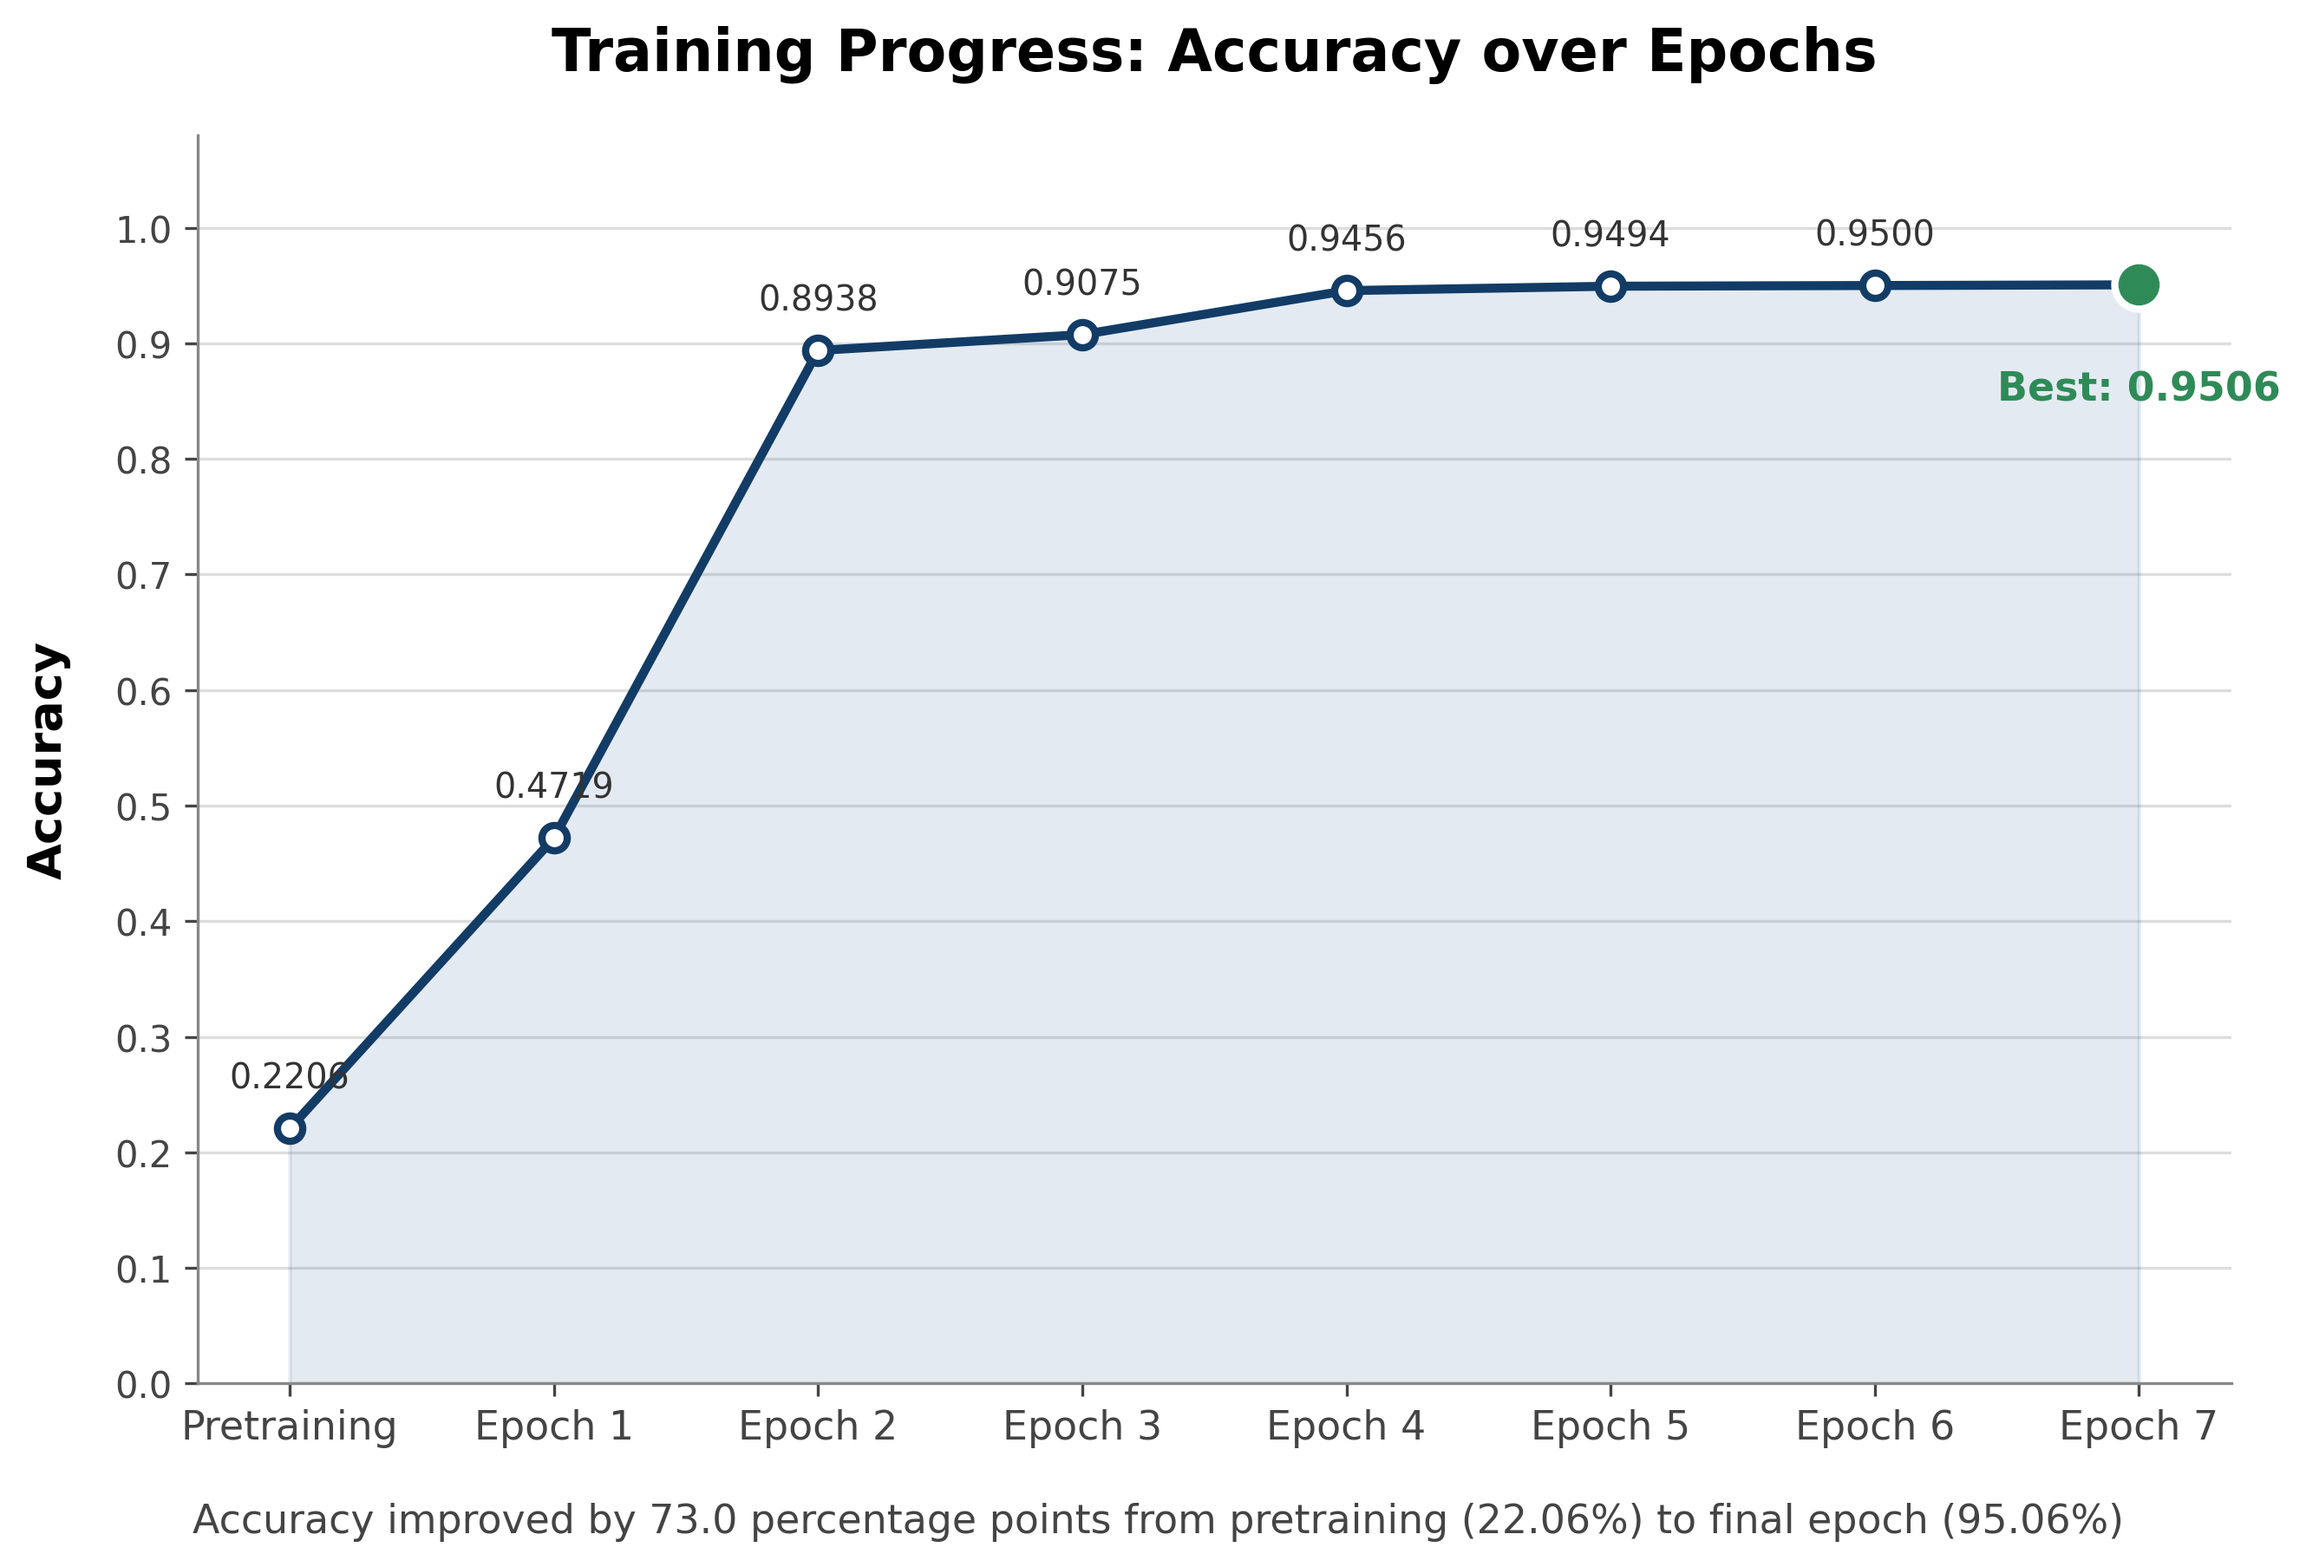
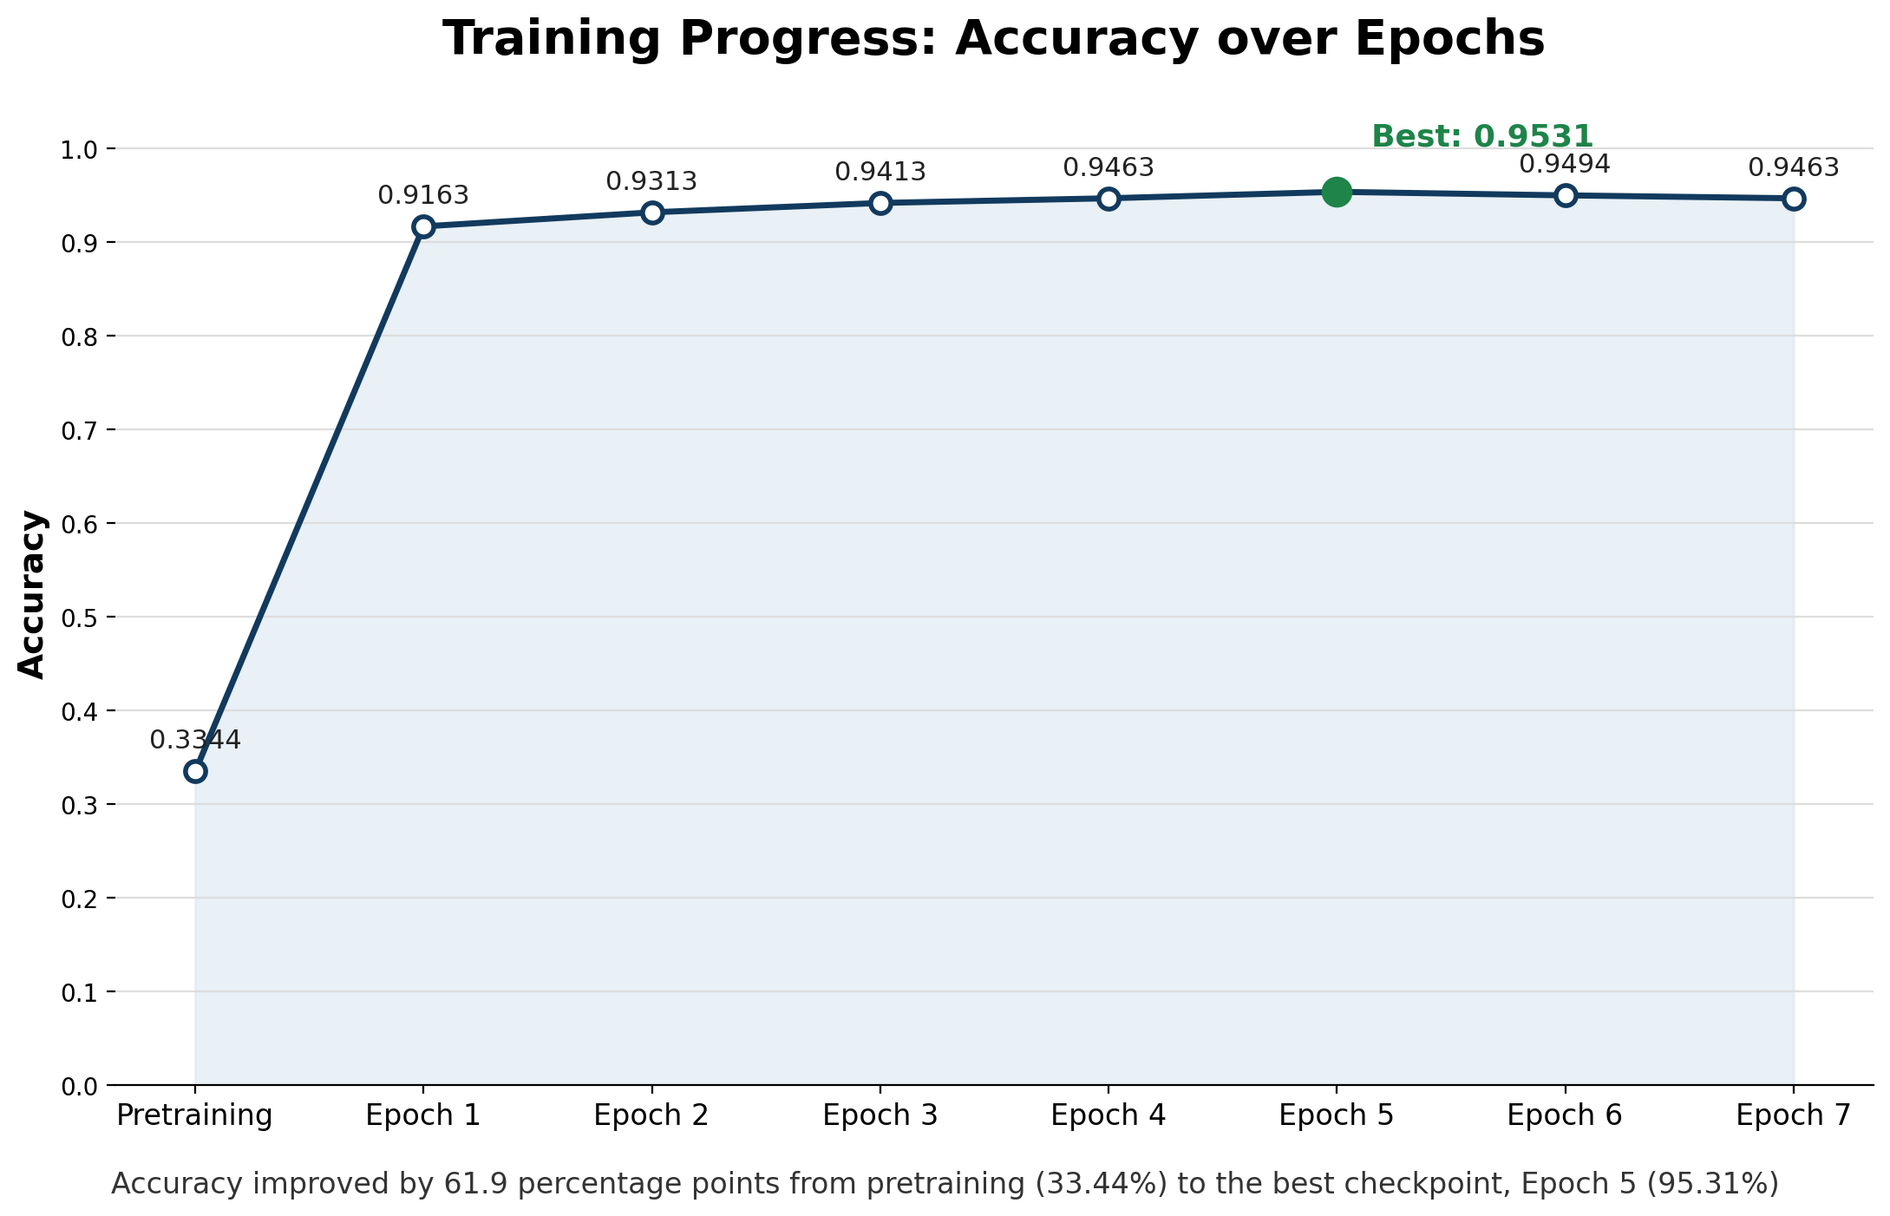
Retrained the Model Using Lanczos Interpolation

diff --git a/backend/src/train.py b/backend/src/train.py
@@ -243,4 +243,4 @@ def load() -> None:
     print(f"============================================================")
 
 if __name__ == "__main__":
-    train()
+    ...

diff --git a/backend/src/invoke.py b/backend/src/invoke.py
@@ -62,4 +62,3 @@ def invoke(tensor: Tensor):
 
 if __name__ == "__main__":
     ...
-

diff --git a/results/Performance.md b/results/Performance.md
@@ -2,18 +2,18 @@
 
 ## Overall Performance
 
-The fine-tuned **ResNet-50 model achieved strong overall performance** on the evaluation dataset, reaching an accuracy of **95.06%** and correctly classifying **1,521 out of 1,600 images**.
+The fine-tuned **ResNet-50 model achieved strong overall performance** on the evaluation dataset, reaching an accuracy of **95.31%** and correctly classifying **1,525 out of 1,600 images**. This checkpoint corresponds to **Epoch 5**, the last epoch whose weights were saved — validation loss increased in Epochs 6 and 7, so training effectively plateaued at this point.
 
-| Metric              |      Score |
-| ------------------- | ---------: |
-| **Test Loss**       |     0.2484 |
-| **Accuracy**        | **95.06%** |
-| **Macro Precision** |     0.9543 |
-| **Macro Recall**    |     0.9506 |
-| **Macro F1-Score**  |     0.9499 |
-| **Macro AUC-ROC**   | **0.9897** |
+| Metric               |      Score |
+| -------------------- | ---------: |
+| **Validation Loss**  |     0.2902 |
+| **Accuracy**         | **95.31%** |
+| **Macro Precision**  |     0.9570 |
+| **Macro Recall**     |     0.9531 |
+| **Macro F1-Score**   |     0.9522 |
+| **Macro AUC-ROC**    | **0.9906** |
 
-The close agreement between macro precision, recall, and F1-score indicates that the model performs relatively consistently across the four classes. Additionally, the **AUC-ROC score of 0.9897** demonstrates excellent overall class separability based on the model's predicted probabilities.
+The close agreement between macro precision, recall, and F1-score indicates that the model performs relatively consistently across the four classes. Additionally, the **AUC-ROC score of 0.9906** demonstrates excellent overall class separability based on the model's predicted probabilities.
 
 ---
 
@@ -21,29 +21,29 @@ The close agreement between macro precision, recall, and F1-score indicates that
 
 | Class       |  Precision |     Recall |   F1-Score | Samples |
 | ----------- | ---------: | ---------: | ---------: | ------: |
-| **Class 0** | **0.9970** |     0.8350 |     0.9088 |     400 |
-| **Class 1** |     0.8921 | **0.9925** |     0.9396 |     400 |
-| **Class 2** |     0.9356 |     0.9800 |     0.9573 |     400 |
-| **Class 3** | **0.9925** | **0.9950** | **0.9938** |     400 |
+| **Class 0** | **1.0000** |     0.8300 |     0.9071 |     400 |
+| **Class 1** |     0.8986 | **0.9975** |     0.9455 |     400 |
+| **Class 2** |     0.9318 |     0.9900 |     0.9600 |     400 |
+| **Class 3** | **0.9975** | **0.9950** | **0.9962** |     400 |
 
 ### Class 0
 
-Class 0 represents the model's main area of weakness. Although its **precision is extremely high at 99.70%**, its **recall is only 83.50%**.
+Class 0 remains the model's main area of weakness. Its **precision is perfect at 100.00%**, but its **recall is only 83.00%**.
 
-This means that when the model predicts Class 0, it is almost always correct. However, the model fails to identify a noticeable number of actual Class 0 samples.
+This means that whenever the model predicts Class 0, it is always correct. However, the model fails to identify a meaningful number of actual Class 0 samples.
 
 The confusion matrix shows that:
 
 * **39 Class 0 images** were predicted as Class 1.
-* **27 Class 0 images** were predicted as Class 2.
+* **29 Class 0 images** were predicted as Class 2.
 
-Therefore, **66 out of 400 Class 0 samples** were misclassified. The main challenge for the model is distinguishing Class 0 from Classes 1 and 2.
+Therefore, **68 out of 400 Class 0 samples** were misclassified. The main challenge for the model is still distinguishing Class 0 from Classes 1 and 2.
 
 ### Class 1
 
-Class 1 achieves an excellent **recall of 99.25%**, meaning that nearly all actual Class 1 images are correctly identified.
+Class 1 achieves an outstanding **recall of 99.75%**, meaning that nearly all actual Class 1 images are correctly identified.
 
-However, its precision is lower at **89.21%**, primarily because a significant number of Class 0 images are incorrectly predicted as Class 1.
+However, its precision is lower at **89.86%**, primarily because a significant number of Class 0 images are incorrectly predicted as Class 1 (with a handful of stray Class 2 and Class 3 samples also landing here).
 
 This suggests that the model is highly sensitive to Class 1 but occasionally assigns the Class 1 label to samples belonging to other classes.
 
@@ -51,15 +51,15 @@ This suggests that the model is highly sensitive to Class 1 but occasionally ass
 
 Class 2 demonstrates strong and balanced performance, with:
 
-* **93.56% precision**
-* **98.00% recall**
-* **95.73% F1-score**
+* **93.18% precision**
+* **99.00% recall**
+* **96.00% F1-score**
 
 Only a small number of actual Class 2 samples are misclassified, with most predictions correctly assigned to their true class.
 
 ### Class 3
 
-Class 3 is the best-performing category, achieving an F1-score of **99.38%**.
+Class 3 is the best-performing category, achieving an F1-score of **99.62%**.
 
 Out of 400 samples:
 
@@ -77,9 +77,9 @@ The confusion matrix reveals a clear pattern in the model's errors:
 ```text
                 Predicted
               C0    C1    C2    C3
-Actual C0    334    39    27     0
-Actual C1      0   397     0     3
-Actual C2      1     7   392     0
+Actual C0    332    39    29     0
+Actual C1      0   399     0     1
+Actual C2      0     4   396     0
 Actual C3      0     2     0   398
 ```
 
@@ -89,25 +89,32 @@ The most significant source of error is:
 
 > **Class 0 being confused with Class 1 and Class 2.**
 
-In contrast, confusion involving Class 3 is extremely limited.
+In contrast, confusion involving Class 3 is extremely limited, and Class 1/Class 2 are almost entirely free of cross-contamination with Class 0 in the reverse direction.
 
 This pattern suggests that the model has learned strong representations for Classes 1, 2, and especially 3, but the visual characteristics of Class 0 overlap more substantially with other categories in the learned feature space.
 
 ---
 
+## Training Trajectory
+
+Validation loss dropped sharply in the first two epochs (1.4374 → 0.3598 → 0.3399) and continued improving steadily through **Epoch 5 (0.2902)**, alongside rising accuracy (91.63% → 95.31%). Epochs 6 and 7 both showed **increased validation loss** (0.3652 and 0.3611) despite falling training loss, a sign of overfitting beyond Epoch 5 — which is why that checkpoint was kept as the final model rather than the last epoch trained.
+
+---
+
 ## Key Findings
 
-* The model achieves a strong overall accuracy of **95.06%**.
-* **Class 3 is classified almost perfectly**, with an F1-score of **99.38%**.
+* The model achieves a strong overall accuracy of **95.31%**.
+* **Class 3 is classified almost perfectly**, with an F1-score of **99.62%**.
 * **Classes 1 and 2 also demonstrate strong performance**, particularly in recall.
-* The primary weakness is **Class 0 recall**, which falls to **83.50%**.
+* The primary weakness is **Class 0 recall**, which falls to **83.00%**.
 * Most classification errors originate from actual Class 0 samples being predicted as **Class 1 or Class 2**.
-* The **AUC-ROC of 0.9897** indicates excellent overall ability to separate the four classes.
+* The **AUC-ROC of 0.9906** indicates excellent overall ability to separate the four classes.
+* Validation loss began rising after Epoch 5, indicating the onset of overfitting in later epochs.
 
 ## Conclusion
 
 Overall, the fine-tuned ResNet-50 model demonstrates **strong performance on the current evaluation dataset**, with highly consistent results across most classes. The main opportunity for improvement is increasing the recall of Class 0 and reducing its confusion with Classes 1 and 2.
 
-Possible future improvements include further investigating the Class 0 samples, examining dataset quality and class-specific visual overlap, tuning the augmentation strategy, adjusting the fine-tuning procedure, or using techniques designed to focus training on difficult or frequently confused examples.
+Possible future improvements include further investigating the Class 0 samples, examining dataset quality and class-specific visual overlap, tuning the augmentation strategy, adjusting the fine-tuning procedure or learning-rate schedule to curb the overfitting seen after Epoch 5, or using techniques designed to focus training on difficult or frequently confused examples.
 
 While these results are promising, strong performance on this test dataset alone is **not sufficient to establish clinical reliability**. Further validation on independent and representative datasets would be necessary before making real-world medical claims.
